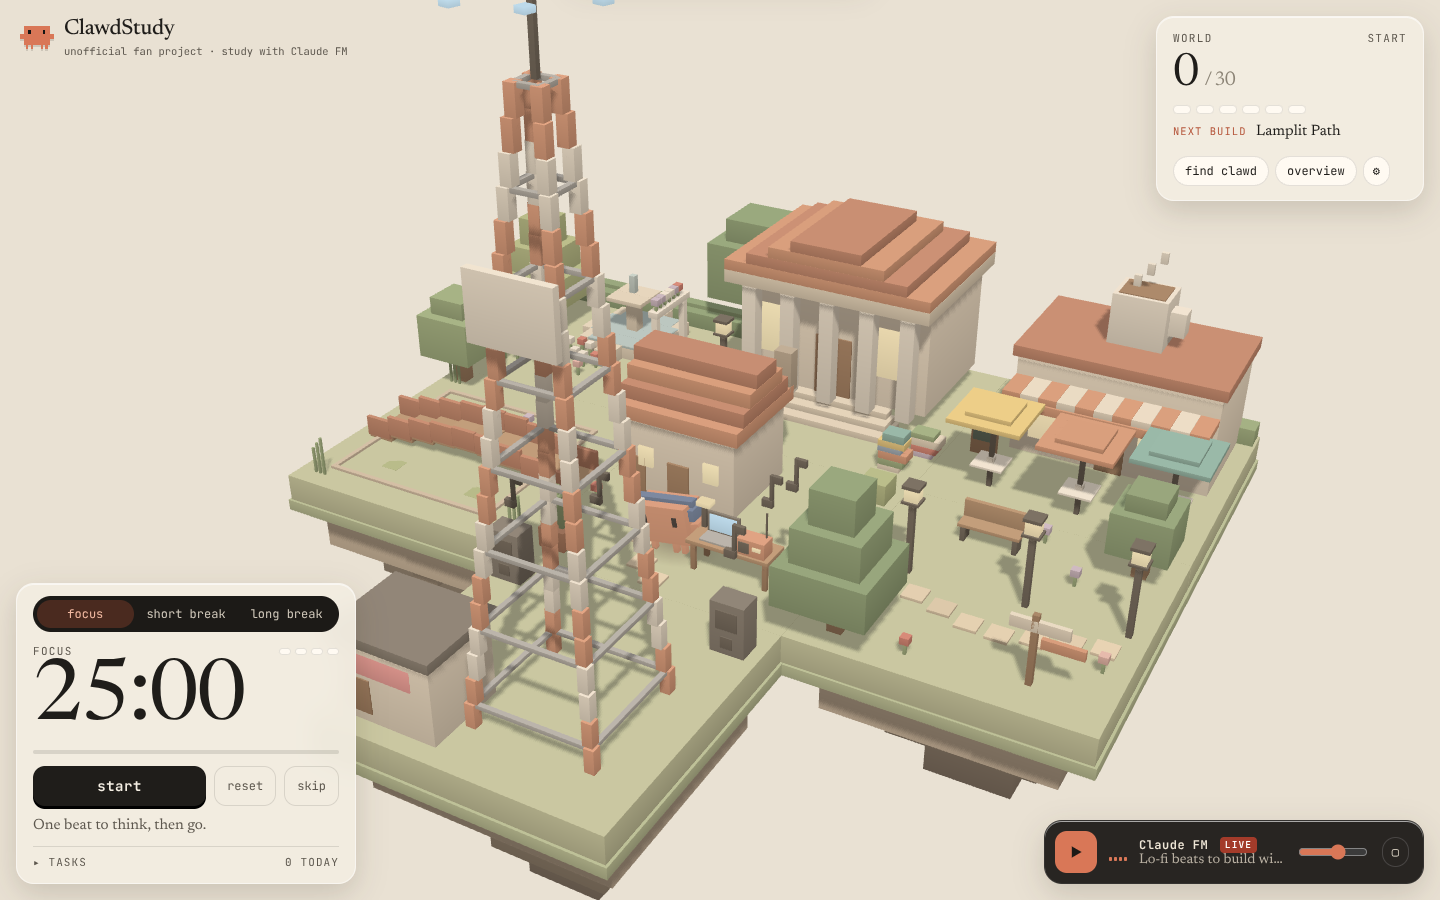
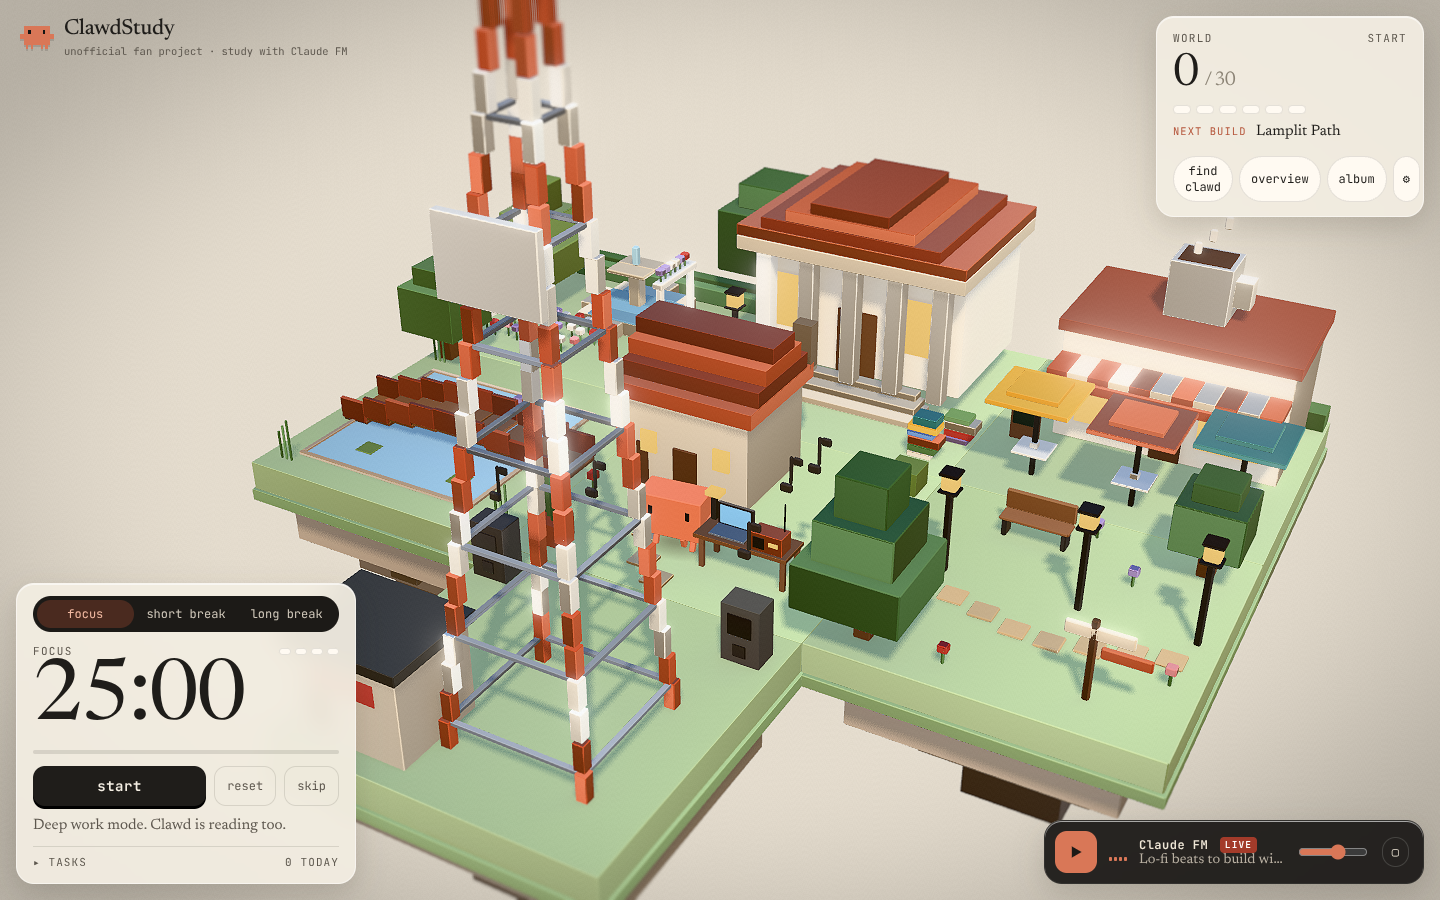
Add 31 Cycles postcards, refresh screenshots and README
Claude-Session: https://claude.ai/code/session_01QJXv4dEfmnYnrssQBV5Hde

diff --git a/README.md b/README.md
@@ -24,7 +24,7 @@ a city skyline, a science isle, a mountain, and finally a rocket to the moon.
 
 Keys: `Space` start/pause · `C` find Clawd · `O` overview · `M` play/pause music.
 
-| Village (6 pomodoros) | Everything (30) |
+| Village, live in the browser | Everything, path-traced in Cycles |
 |---|---|
 | ![](docs/village.png) | ![](docs/world-day.png) |
 
@@ -42,6 +42,20 @@ URL flags for demos and testing:
 | `?fast=5` | every block lasts 5 seconds |
 | `?debug` | slider to scrub through unlocks, a "complete focus" button and live renderer stats |
 | `?time=22` | force the hour (try 19 for dusk, 23 for night) |
+
+## The look: a photographed miniature
+
+- **Cycles-baked light.** Blender path-traces sky light, bounce light and contact occlusion into a lightmap
+  for every region (`world/lm/*.webp`, 700 KB total). The browser adds only the direct sun, so it gets
+  path-traced lighting for the cost of one texture read.
+- **Defined edges.** Every block is bevelled with hardened normals, so edges catch highlights. Each corner
+  carries its own roughness and metalness, so water and glass shine, steel is metallic and grass stays matte.
+  The palette is converted from sRGB to linear properly.
+- **Lens and finish:** neutral tone mapping, a procedural sky environment for reflections, soft 4K shadows,
+  a tilt-shift depth of field, bloom on lamps and windows at night, light sharpening, vignette and grain.
+  Quality drops step by step if frames run slow.
+- **Postcards.** Every place you unlock comes with a real Cycles render of it (`blender/postcards.py`),
+  shown on unlock and collected in the album (`P`).
 
 ## The world is generated by Blender
 
@@ -63,7 +77,8 @@ To rebuild after editing a region:
 
 ```bash
 uv venv -p 3.11 .bpy && uv pip install -p .bpy bpy   # one-time
-npm run world
+npm run world        # geometry + Cycles lightmaps (~10 min on CPU)
+npm run postcards    # 31 path-traced postcards + hero shot (~40 min on CPU)
 ```
 
 ## Performance
@@ -72,8 +87,9 @@ Smoothness was the main requirement:
 
 - The first load is the UI only (about 9 KB gzipped of JS), so the timer works before any 3D loads.
   three.js and the world load as a separate chunk.
-- Each region is merged into 2–5 meshes with one shared material and no textures. The full 30-region world
-  is about 80 draw calls and 28k triangles, and all the assets together are 790 KB.
+- Each region is merged into 2–5 meshes with one shared material and one lightmap. The full 30-region world
+  is about 3.5 MB of compressed geometry and lightmaps, loaded per region as you unlock it. A frame takes
+  about 1.2 ms of CPU.
 - The shadow map only re-renders when something changes (a reveal or a time-of-day step). Clawd uses
   a blob shadow.
 - The next region is downloaded while you focus, so its reveal starts instantly.
